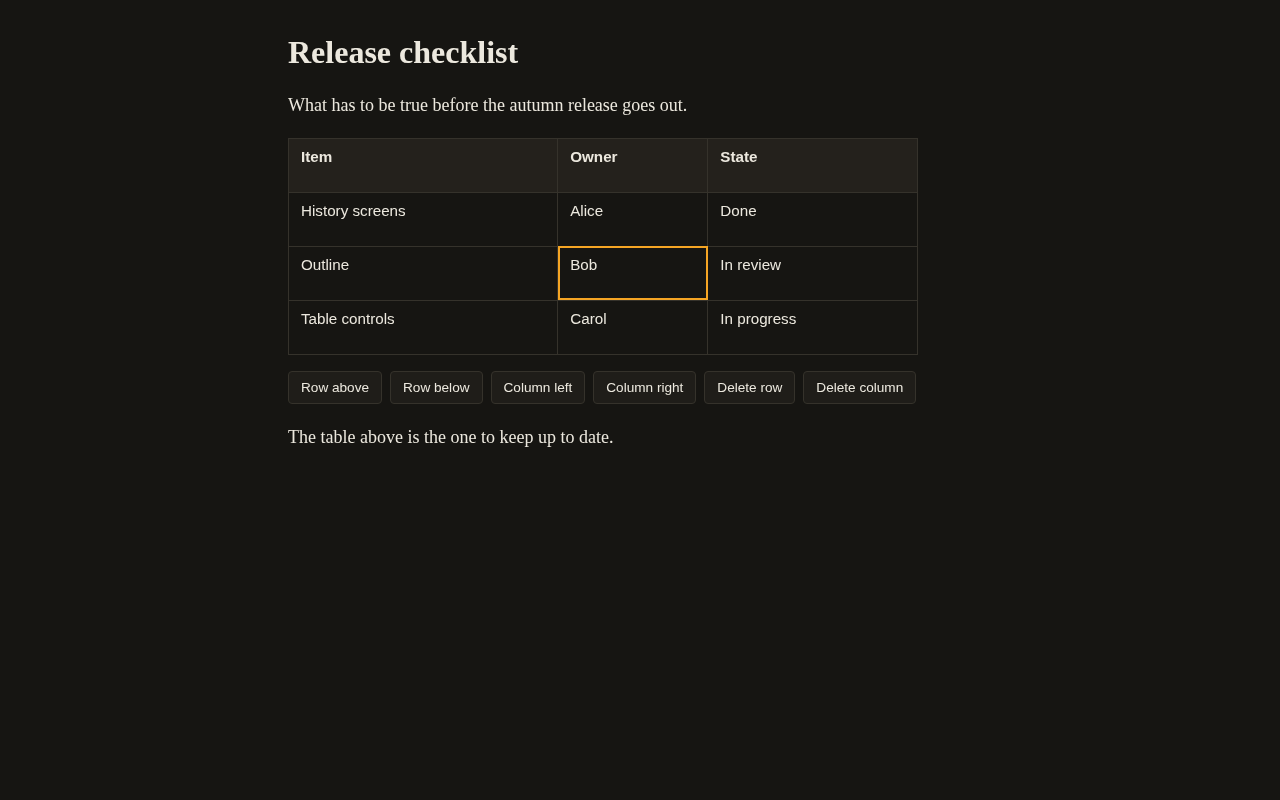
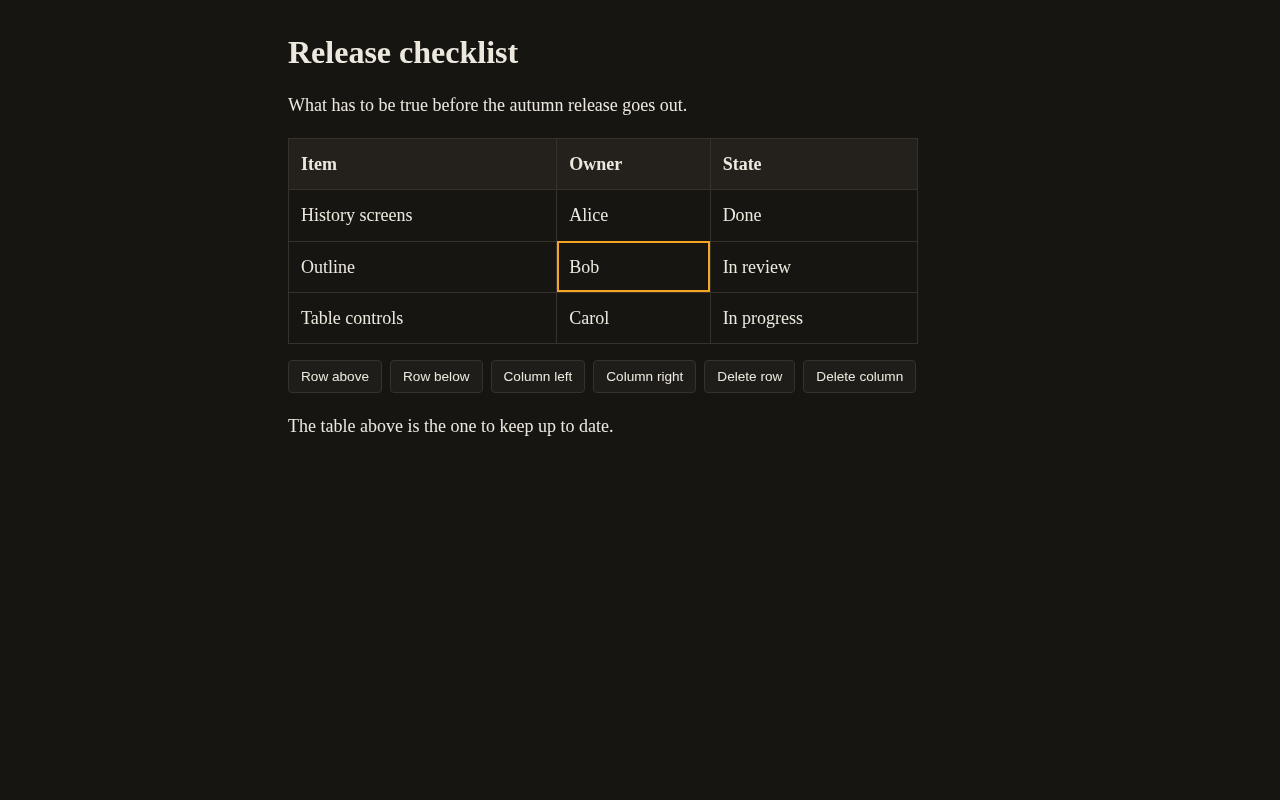
fix(web): table cells read in the page's font and have balanced padding; shots retaken

diff --git a/apps/web/test-e2e/tables/toolbar.spec.ts b/apps/web/test-e2e/tables/toolbar.spec.ts
@@ -59,3 +59,17 @@ test('every control has an accessible name and the Tab key reaches each in turn 
     await editor.stop();
   }
 });
+
+test('cells read in the page text\'s font, and a cell is as tall as its text and its padding (no space of a paragraph under it)', async ({ page }) => {
+  const editor = await openEditor(page, TABLE);
+  try {
+    const font = (selector: string): Promise<string> => page.locator(selector).first().evaluate((el) => getComputedStyle(el).fontFamily);
+    expect(await font('td')).toBe(await font('p'));
+    expect(await font('th')).toBe(await font('p'));
+    const box = await page.locator('td').first().boundingBox();
+    const line = await page.locator('td p').first().boundingBox();
+    expect(box?.height ?? 0).toBeLessThan((line?.height ?? 0) + 40); // the text's own height and the cell's padding, not a second paragraph's space
+  } finally {
+    await editor.stop();
+  }
+});

diff --git a/apps/web/src/editor/tables/tables.css b/apps/web/src/editor/tables/tables.css
@@ -15,3 +15,18 @@
   outline: 2px solid var(--focus);
   outline-offset: -2px;
 }
+
+/* Cells read like the page: its reading font (the base table rule gives tables the interface's), and the paragraph a cell holds adds no space of its own under the text. */
+.page-editor.page-text table {
+  font-family: inherit;
+  font-size: inherit;
+}
+.page-editor.page-text th,
+.page-editor.page-text td {
+  padding: var(--space-2) var(--space-3);
+  vertical-align: top;
+}
+.page-editor.page-text th > p,
+.page-editor.page-text td > p {
+  margin: 0;
+}
